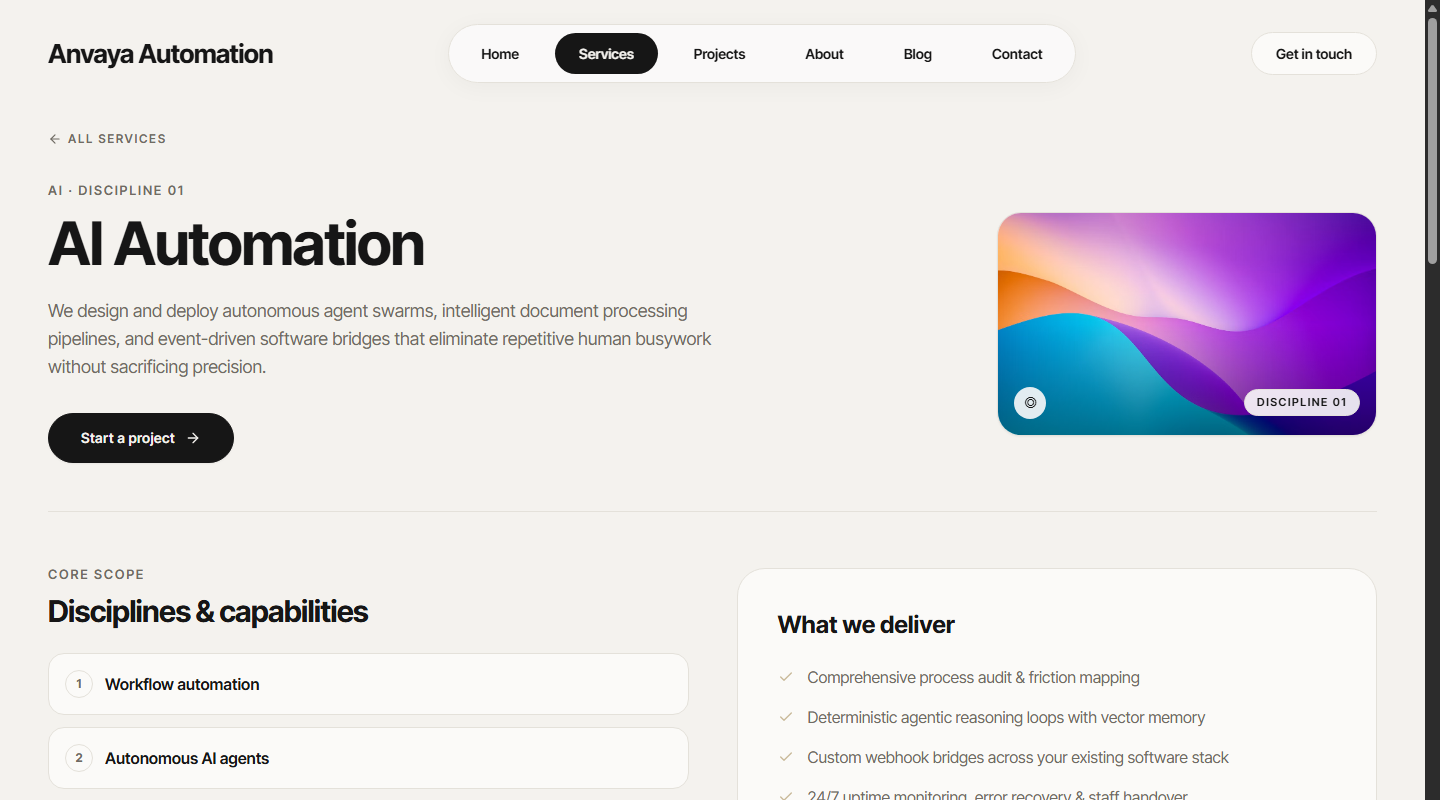
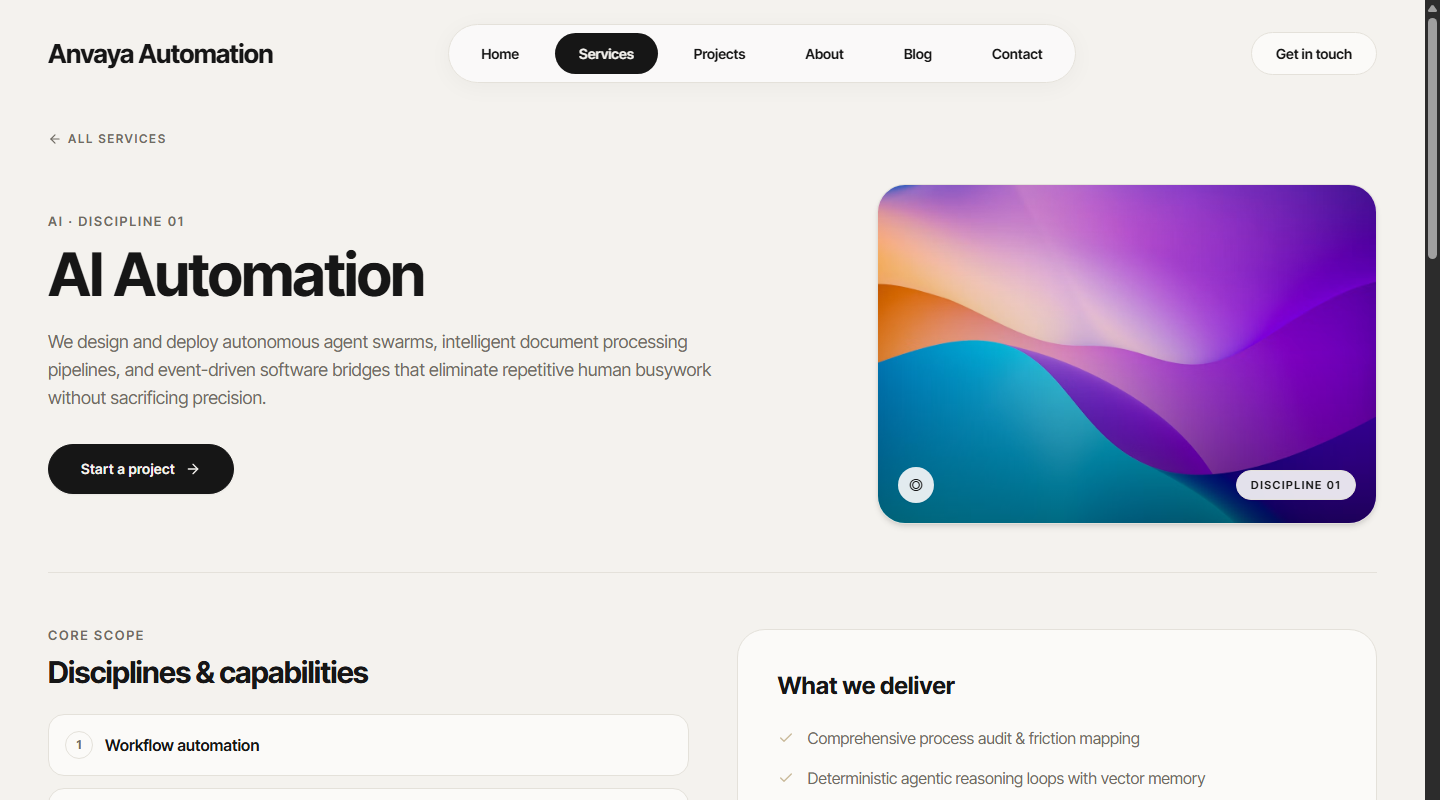
feat: match reference hero layout, enlarge service image, set Ahmedabad location, send contact email, black heading

diff --git a/app/page.tsx b/app/page.tsx
@@ -51,145 +51,151 @@ export default function HomePage() {
 
   return (
     <div className="relative overflow-hidden w-full">
-      {/* ================= 1. REDESIGNED HERO SECTION (BACKGROUND VIDEO + LAYERED SPHERE HEADLINE + SCROLL ANIMATION) ================= */}
+      {/* ================= 1. HERO SECTION (EXACT DESIGN MATCH WITH ORBITAL PEARL SPHERE & 4 FLOATING BADGES) ================= */}
       <section
         ref={heroRef}
-        onMouseMove={handleMouseMove}
-        onMouseLeave={handleMouseLeave}
-        className="relative min-h-[100svh] w-full flex flex-col justify-between pt-28 md:pt-36 pb-12 overflow-hidden bg-bg"
+        className="relative min-h-[calc(100svh-80px)] w-full flex items-center pt-28 md:pt-36 pb-16 overflow-hidden bg-bg"
       >
-        {/* Continuous Ambient Background Video Loop (Theme-matching quiet luxury) */}
-        <div className="absolute inset-0 w-full h-full overflow-hidden pointer-events-none select-none z-0">
-          <video
-            autoPlay
-            muted
-            loop
-            playsInline
-            className="w-full h-full object-cover opacity-50 mix-blend-multiply"
-          >
-            <source src="/hero-ambient.mp4" type="video/mp4" />
-          </video>
-          {/* Subtle Champagne & Ivory Vignette Gradient Overlays */}
-          <div className="absolute inset-0 bg-gradient-to-b from-[#F4F2EE]/50 via-transparent to-[#F4F2EE] pointer-events-none" />
-          <div className="absolute inset-0 bg-gradient-to-r from-[#F4F2EE]/40 via-transparent to-[#F4F2EE]/40 pointer-events-none" />
-        </div>
-
-        {/* Soft Ambient Champagne Halo Glow */}
-        <div className="absolute top-1/2 left-1/2 -translate-x-1/2 -translate-y-1/2 w-[600px] sm:w-[850px] h-[550px] rounded-full bg-gradient-to-b from-[#C9B99A]/20 via-[#EAE4D7]/25 to-transparent blur-3xl pointer-events-none z-0" />
-
-        {/* Hero Main Content Area: Centered Stage with Sphere directly behind text */}
-        <div className="w-full max-w-[1440px] mx-auto px-6 md:px-12 relative z-10 flex-1 flex flex-col justify-center items-center">
-          <div className="relative w-full max-w-5xl mx-auto flex flex-col items-center justify-center min-h-[62vh] py-6 sm:py-10">
+        <div className="w-full max-w-[1440px] mx-auto px-6 md:px-12 relative z-10 flex-1 flex items-center">
+          <div className="grid grid-cols-1 lg:grid-cols-12 gap-12 lg:gap-8 items-center w-full">
             
-            {/* Luminous Pearl Sphere & Celestial Orbital Centerpiece Directly Behind Headline */}
-            <motion.div
-              style={{
-                y: heroSphereY,
-                scale: heroSphereScale,
-                rotateX: tiltX,
-                rotateY: tiltY,
-              }}
-              className="absolute inset-0 flex items-center justify-center pointer-events-none select-none z-0 [perspective:1000px]"
-            >
-              {/* Outer Slow-Rotating Hairline Celestial Orbit Ring */}
-              <motion.div
-                animate={{ rotate: 360 }}
-                transition={{ duration: 80, repeat: Infinity, ease: 'linear' }}
-                className="absolute w-[360px] sm:w-[500px] md:w-[620px] lg:w-[680px] h-[360px] sm:h-[500px] md:h-[620px] lg:h-[680px] rounded-full border border-[#DCD6CA]/80"
-              >
-                <div className="absolute top-0 left-1/2 -translate-x-1/2 -translate-y-1/2 w-2.5 h-2.5 rounded-full bg-champagne shadow-xs" />
-              </motion.div>
-
-              {/* Inner Tilted Elliptical Ring */}
-              <div
-                style={{ transform: 'rotateX(64deg)' }}
-                className="absolute w-[380px] sm:w-[520px] md:w-[660px] lg:w-[720px] h-[380px] sm:h-[520px] md:h-[660px] lg:h-[720px] rounded-full border border-[#E6E0D6]/70"
-              />
-
-              {/* Floating Pearl Sphere */}
-              <motion.div
-                animate={{
-                  y: [-8, 8, -8],
-                }}
-                transition={{
-                  duration: 6.5,
-                  repeat: Infinity,
-                  ease: 'easeInOut',
-                }}
-                className="relative w-[280px] sm:w-[380px] md:w-[440px] h-[280px] sm:h-[380px] md:h-[440px] opacity-90 drop-shadow-[0_24px_55px_rgba(0,0,0,0.06)]"
-              >
-                <PearlSphere size="100%" />
-              </motion.div>
-            </motion.div>
-
-            {/* Foreground Content: Layered Directly On Top of The Orb & Video Visual */}
-            <motion.div
-              style={{ y: heroTextY, opacity: heroTextOpacity }}
-              className="relative z-10 flex flex-col items-center text-center px-4 max-w-4xl"
-            >
-              {/* Majestic Headline - Never Blank! */}
+            {/* LEFT COLUMN: HERO HEADLINE & EDITORIAL CONTENT */}
+            <div className="lg:col-span-5 flex flex-col justify-center text-left">
               <motion.h1
-                initial={{ opacity: 0, y: 22, scale: 0.98 }}
-                animate={{ opacity: 1, y: 0, scale: 1 }}
-                transition={{ duration: 0.9, delay: 0.1, ease: [0.22, 1, 0.36, 1] }}
-                className="text-[clamp(2.75rem,8vw,6.25rem)] font-bold tracking-tight leading-[0.96] text-ink select-none pb-4 drop-shadow-[0_2px_16px_rgba(255,255,255,0.85)]"
+                initial={{ opacity: 0, y: 24 }}
+                animate={{ opacity: 1, y: 0 }}
+                transition={{ duration: 0.8, ease: [0.22, 1, 0.36, 1] }}
+                className="text-[clamp(2.75rem,5.5vw,5.5rem)] font-extrabold tracking-tight leading-[0.98] text-ink select-none"
               >
-                Intelligence, refined.
+                Intelligence,<br />
+                refined for<br />
+                real business<span className="inline-block w-2.5 h-2.5 sm:w-3.5 sm:h-3.5 rounded-full bg-[#A38F78] ml-1.5 align-baseline" />
               </motion.h1>
 
-              {/* Narrative Subtitle with High Legibility */}
               <motion.p
                 initial={{ opacity: 0, y: 16 }}
                 animate={{ opacity: 1, y: 0 }}
-                transition={{ duration: 0.8, delay: 0.22, ease: [0.22, 1, 0.36, 1] }}
-                className="text-base sm:text-lg md:text-xl text-[#3A3630] font-normal max-w-2xl mx-auto leading-relaxed mt-2 mb-8 bg-surface/85 backdrop-blur-md px-6 py-2.5 rounded-pill border border-line/60 shadow-2xs"
+                transition={{ duration: 0.8, delay: 0.15, ease: [0.22, 1, 0.36, 1] }}
+                className="mt-6 text-base sm:text-lg md:text-xl text-[#5A564F] font-normal max-w-xl leading-relaxed"
               >
-                Autonomous workflows, bespoke web platforms, cloud architecture, and compound systems. Engineered with quiet precision.
+                We build AI automation, modern web applications, cloud infrastructure and digital growth systems that help businesses work smarter and scale faster.
               </motion.p>
 
-              {/* Action CTAs */}
               <motion.div
                 initial={{ opacity: 0, y: 18 }}
                 animate={{ opacity: 1, y: 0 }}
-                transition={{ duration: 0.8, delay: 0.3, ease: [0.22, 1, 0.36, 1] }}
-                className="flex flex-wrap items-center justify-center gap-4"
+                transition={{ duration: 0.8, delay: 0.25, ease: [0.22, 1, 0.36, 1] }}
+                className="mt-8 sm:mt-10 flex items-center"
               >
                 <Magnetic>
                   <Link
-                    href="/contact"
-                    className="luxury-btn-dark px-8 sm:px-9 py-3.5 sm:py-4 rounded-pill text-sm font-semibold tracking-wide shadow-sm min-h-[46px] inline-flex items-center gap-2.5"
+                    href="/services"
+                    className="bg-ink text-ivory hover:bg-neutral-800 transition-all rounded-pill px-8 sm:px-9 py-4 font-semibold text-sm sm:text-base inline-flex items-center gap-3 shadow-sm select-none min-h-[48px]"
                   >
-                    <span>Start a conversation</span>
+                    <span>Explore our services</span>
                     <ArrowRight className="w-4 h-4" />
                   </Link>
                 </Magnetic>
-                <Magnetic>
-                  <Link
-                    href="/services"
-                    className="luxury-btn-light px-8 sm:px-9 py-3.5 sm:py-4 rounded-pill text-sm font-semibold tracking-wide shadow-2xs min-h-[46px] inline-flex items-center gap-2"
-                  >
-                    <span>Explore capabilities</span>
-                  </Link>
-                </Magnetic>
               </motion.div>
-            </motion.div>
-          </div>
-        </div>
+            </div>
 
-        {/* Hero Bottom Strip: Grounded Studio Credentials */}
-        <div className="w-full max-w-[1440px] mx-auto px-6 md:px-12 mt-6 pt-6 border-t border-line/70 relative z-10">
-          <div className="grid grid-cols-1 sm:grid-cols-3 gap-4 sm:gap-8 text-xs text-muted font-medium tracking-wide">
-            <div className="flex items-center gap-2">
-              <span className="w-1.5 h-1.5 rounded-full bg-ink" />
-              <span>5 Core Engineering Disciplines</span>
-            </div>
-            <div className="flex items-center gap-2 sm:justify-center">
-              <span className="w-1.5 h-1.5 rounded-full bg-champagne" />
-              <span>Zero Vendor Lock-in · Full IP Ownership</span>
-            </div>
-            <div className="flex items-center gap-2 sm:justify-end">
-              <span className="w-1.5 h-1.5 rounded-full bg-[#8C7A5B]" />
-              <span>Mumbai &amp; Bangalore · Global Delivery</span>
+            {/* RIGHT COLUMN: ORBITAL PEARL SPHERE & 4 FLOATING BADGES (MATCHING REFERENCE IMAGE) */}
+            <div className="lg:col-span-7 flex items-center justify-center relative w-full select-none py-4 sm:py-8">
+              <div className="relative w-[340px] h-[340px] sm:w-[460px] sm:h-[460px] md:w-[540px] md:h-[540px] lg:w-[600px] lg:h-[600px] flex items-center justify-center">
+                
+                {/* Ambient Soft Radial Champagne Halo behind sphere */}
+                <div className="absolute inset-0 rounded-full bg-gradient-to-tr from-[#EBE4D5]/60 via-[#F3EFE6]/40 to-transparent blur-2xl pointer-events-none" />
+
+                {/* Concentric Hairline Orbital Rings */}
+                <div className="absolute w-[88%] h-[88%] rounded-full border border-[#DDD7CD]/75 pointer-events-none" />
+                <div className="absolute w-[72%] h-[72%] rounded-full border border-[#DDD7CD]/65 pointer-events-none" />
+                <div className="absolute w-[56%] h-[56%] rounded-full border border-[#DDD7CD]/55 pointer-events-none" />
+                <div className="absolute w-[42%] h-[42%] rounded-full border border-[#DDD7CD]/45 pointer-events-none" />
+
+                {/* Satellite Metallic Beads (Placed along orbital paths matching image) */}
+                {/* Bead 1 (Top-right outer orbit): ~22px */}
+                <div
+                  className="absolute top-[8%] right-[22%] w-5 h-5 sm:w-6 sm:h-6 rounded-full shadow-[0_6px_14px_rgba(140,120,90,0.25)] pointer-events-none"
+                  style={{ background: 'radial-gradient(circle at 35% 25%, #FFF0D6 0%, #C9B99A 50%, #857252 100%)' }}
+                />
+                {/* Bead 2 (Top-left inner orbit): ~11px */}
+                <div
+                  className="absolute top-[28%] left-[24%] w-2.5 h-2.5 sm:w-3 sm:h-3 rounded-full shadow-sm pointer-events-none"
+                  style={{ background: 'radial-gradient(circle at 35% 25%, #FFF0D6 0%, #C9B99A 50%, #857252 100%)' }}
+                />
+                {/* Bead 3 (Far-left middle orbit): ~13px */}
+                <div
+                  className="absolute top-[48%] left-[8%] w-3 h-3 sm:w-3.5 sm:h-3.5 rounded-full shadow-sm pointer-events-none"
+                  style={{ background: 'radial-gradient(circle at 35% 25%, #FFF0D6 0%, #C9B99A 50%, #857252 100%)' }}
+                />
+                {/* Bead 4 (Right-center middle orbit): ~11px */}
+                <div
+                  className="absolute top-[54%] right-[16%] w-2.5 h-2.5 sm:w-3 sm:h-3 rounded-full shadow-sm pointer-events-none"
+                  style={{ background: 'radial-gradient(circle at 35% 25%, #FFF0D6 0%, #C9B99A 50%, #857252 100%)' }}
+                />
+                {/* Bead 5 (Bottom-left outer orbit): ~24px */}
+                <div
+                  className="absolute bottom-[14%] left-[28%] w-5 h-5 sm:w-6 sm:h-6 rounded-full shadow-[0_6px_16px_rgba(140,120,90,0.25)] pointer-events-none"
+                  style={{ background: 'radial-gradient(circle at 35% 25%, #FFF0D6 0%, #C9B99A 50%, #857252 100%)' }}
+                />
+                {/* Bead 6 (Bottom outer orbit): ~14px */}
+                <div
+                  className="absolute bottom-[20%] right-[32%] w-3.5 h-3.5 sm:w-4 sm:h-4 rounded-full shadow-sm pointer-events-none"
+                  style={{ background: 'radial-gradient(circle at 35% 25%, #FFF0D6 0%, #C9B99A 50%, #857252 100%)' }}
+                />
+
+                {/* Central High-Fidelity Pearl Sphere */}
+                <motion.div
+                  animate={{ y: [-7, 7, -7] }}
+                  transition={{ duration: 7, repeat: Infinity, ease: 'easeInOut' }}
+                  className="relative w-[190px] h-[190px] sm:w-[260px] sm:h-[260px] md:w-[310px] md:h-[310px] lg:w-[350px] lg:h-[350px] rounded-full pointer-events-none"
+                  style={{
+                    background: 'radial-gradient(circle at 38% 30%, #FFFFFF 0%, #FAF8F3 25%, #EDE7DD 55%, #D7CEC2 80%, #BDAFA0 100%)',
+                    boxShadow: '0 45px 95px rgba(160, 145, 125, 0.22), 0 16px 36px rgba(0, 0, 0, 0.05)',
+                  }}
+                />
+
+                {/* 4 FLOATING GLASSMORPHISM BADGES (EXACT POSITIONS FROM REFERENCE IMAGE) */}
+                {/* 1. AI AUTOMATION (Top) */}
+                <motion.div
+                  animate={{ y: [-4, 4, -4] }}
+                  transition={{ duration: 5.5, repeat: Infinity, ease: 'easeInOut' }}
+                  className="absolute top-[8%] sm:top-[10%] left-[20%] sm:left-[24%] bg-white/88 backdrop-blur-md px-3.5 sm:px-4 py-1.5 sm:py-2 rounded-full border border-white/80 shadow-[0_6px_20px_rgba(0,0,0,0.05)] text-[10px] sm:text-[12px] font-semibold tracking-[0.14em] uppercase text-[#3A3630] flex items-center gap-2 whitespace-nowrap z-20"
+                >
+                  <span className="w-1.5 h-1.5 rounded-full bg-[#B3A086] flex-shrink-0" />
+                  <span>AI AUTOMATION</span>
+                </motion.div>
+
+                {/* 2. WEB APPLICATIONS (Right) */}
+                <motion.div
+                  animate={{ y: [4, -4, 4] }}
+                  transition={{ duration: 6, repeat: Infinity, ease: 'easeInOut', delay: 0.5 }}
+                  className="absolute top-[38%] sm:top-[40%] right-[-8px] sm:right-[0%] lg:right-[-12px] bg-white/88 backdrop-blur-md px-3.5 sm:px-4 py-1.5 sm:py-2 rounded-full border border-white/80 shadow-[0_6px_20px_rgba(0,0,0,0.05)] text-[10px] sm:text-[12px] font-semibold tracking-[0.14em] uppercase text-[#3A3630] flex items-center gap-2 whitespace-nowrap z-20"
+                >
+                  <span className="w-1.5 h-1.5 rounded-full bg-[#B3A086] flex-shrink-0" />
+                  <span>WEB APPLICATIONS</span>
+                </motion.div>
+
+                {/* 3. CLOUD INFRASTRUCTURE (Bottom-Left) */}
+                <motion.div
+                  animate={{ y: [-5, 5, -5] }}
+                  transition={{ duration: 6.5, repeat: Infinity, ease: 'easeInOut', delay: 1 }}
+                  className="absolute bottom-[24%] sm:bottom-[25%] left-[-4px] sm:left-[4%] lg:left-[2%] bg-white/88 backdrop-blur-md px-3.5 sm:px-4 py-1.5 sm:py-2 rounded-full border border-white/80 shadow-[0_6px_20px_rgba(0,0,0,0.05)] text-[10px] sm:text-[12px] font-semibold tracking-[0.14em] uppercase text-[#3A3630] flex items-center gap-2 whitespace-nowrap z-20"
+                >
+                  <span className="w-1.5 h-1.5 rounded-full bg-[#B3A086] flex-shrink-0" />
+                  <span>CLOUD INFRASTRUCTURE</span>
+                </motion.div>
+
+                {/* 4. GROWTH & SEO (Bottom-Right) */}
+                <motion.div
+                  animate={{ y: [4, -4, 4] }}
+                  transition={{ duration: 5.8, repeat: Infinity, ease: 'easeInOut', delay: 1.5 }}
+                  className="absolute bottom-[14%] sm:bottom-[16%] right-[2%] sm:right-[6%] lg:right-[4%] bg-white/88 backdrop-blur-md px-3.5 sm:px-4 py-1.5 sm:py-2 rounded-full border border-white/80 shadow-[0_6px_20px_rgba(0,0,0,0.05)] text-[10px] sm:text-[12px] font-semibold tracking-[0.14em] uppercase text-[#3A3630] flex items-center gap-2 whitespace-nowrap z-20"
+                >
+                  <span className="w-1.5 h-1.5 rounded-full bg-[#B3A086] flex-shrink-0" />
+                  <span>GROWTH &amp; SEO</span>
+                </motion.div>
+              </div>
             </div>
           </div>
         </div>
@@ -200,7 +206,7 @@ export default function HomePage() {
         <div className="w-full max-w-[1440px] mx-auto px-6 md:px-12">
           <FadeUp>
             <div className="quiet-tag mb-4">What We Do</div>
-            <h2 className="text-[clamp(2.25rem,5.5vw,4.75rem)] font-bold tracking-tight leading-[1.04] max-w-4xl text-coffee pb-2">
+            <h2 className="text-[clamp(2.25rem,5.5vw,4.75rem)] font-bold tracking-tight leading-[1.04] max-w-4xl text-ink pb-2">
               Everything your business needs to scale.
             </h2>
             <p className="mt-4 text-muted text-base sm:text-lg max-w-3xl leading-relaxed font-light">

diff --git a/app/services/[slug]/page.tsx b/app/services/[slug]/page.tsx
@@ -55,8 +55,8 @@ export default function ServiceDetailPage() {
         <FadeUp>
           <div className="pb-12 mb-10 border-b border-line">
             <div className="grid grid-cols-1 lg:grid-cols-12 gap-8 lg:gap-12 items-center">
-              {/* Left Column (8 cols): Category, Title, Description, CTA */}
-              <div className="lg:col-span-8">
+              {/* Left Column (7 cols): Category, Title, Description, CTA */}
+              <div className="lg:col-span-7">
                 <div className="quiet-tag mb-4">{service.category} · Discipline {service.number}</div>
                 <h1 className="text-3xl sm:text-4xl md:text-5xl lg:text-6xl font-bold tracking-tight text-ink leading-[1.04] pb-2">
                   {service.title}
@@ -78,20 +78,20 @@ export default function ServiceDetailPage() {
                 </div>
               </div>
 
-              {/* Right Column (4 cols): Sleek Compact Editorial Card matching Blog post style */}
-              <div className="lg:col-span-4 flex justify-center lg:justify-end">
-                <div className="w-full max-w-[380px] h-48 sm:h-56 rounded-[24px] overflow-hidden border border-line bg-card shadow-sm relative group">
+              {/* Right Column (5 cols): Expanded Premium Photo Card */}
+              <div className="lg:col-span-5 flex justify-center lg:justify-end">
+                <div className="w-full max-w-[500px] h-64 sm:h-72 md:h-80 lg:h-[340px] rounded-[28px] overflow-hidden border border-line bg-card shadow-md relative group">
                   <img
                     src={service.imageUrl}
                     alt={service.title}
                     className="w-full h-full object-cover group-hover:scale-105 transition-transform duration-500"
                   />
-                  <div className="absolute inset-0 bg-gradient-to-t from-black/40 via-transparent to-transparent pointer-events-none" />
-                  <div className="absolute bottom-4 left-4 right-4 flex items-center justify-between text-ivory">
-                    <span className="w-8 h-8 rounded-full bg-surface/90 backdrop-blur-md flex items-center justify-center font-serif text-base text-ink shadow-xs">
+                  <div className="absolute inset-0 bg-gradient-to-t from-black/45 via-black/10 to-transparent pointer-events-none" />
+                  <div className="absolute bottom-5 left-5 right-5 flex items-center justify-between text-ivory">
+                    <span className="w-9 h-9 rounded-full bg-surface/90 backdrop-blur-md flex items-center justify-center font-serif text-lg text-ink shadow-sm">
                       {service.iconSymbol}
                     </span>
-                    <span className="text-[11px] font-semibold tracking-[0.14em] uppercase bg-surface/90 backdrop-blur-md px-3 py-1 rounded-pill text-ink border border-line shadow-xs">
+                    <span className="text-[11px] font-semibold tracking-[0.14em] uppercase bg-surface/90 backdrop-blur-md px-3.5 py-1.5 rounded-pill text-ink border border-line shadow-sm">
                       Discipline {service.number}
                     </span>
                   </div>

diff --git a/app/contact/page.tsx b/app/contact/page.tsx
@@ -34,13 +34,29 @@ export default function ContactPage() {
     setIsSubmitting(true);
     setResult(null);
 
-    const formData = new FormData(e.currentTarget);
+    const form = e.currentTarget;
+    const formData = new FormData(form);
+    const name = (formData.get('name') as string) || '';
+    const email = (formData.get('email') as string) || '';
+    const company = (formData.get('company') as string) || '';
+    const message = (formData.get('message') as string) || '';
+    const services = selectedServices.join(', ');
+
     formData.delete('services');
     selectedServices.forEach((s) => formData.append('services', s));
 
     const res = await submitContactAction(null, formData);
     setIsSubmitting(false);
     setResult(res);
+
+    if (res.success) {
+      // Directly open email to contact@anvayaautomation.com
+      const subject = encodeURIComponent(`Project Inquiry: ${name} (${company || 'New Client'})`);
+      const body = encodeURIComponent(
+        `Dear Anvaya Automation Team,\n\nI would like to discuss a project.\n\nName: ${name}\nEmail: ${email}\nCompany: ${company || 'N/A'}\nInterested Services: ${services}\n\nProject Details:\n${message}\n\nBest regards,\n${name}`
+      );
+      window.location.href = `mailto:contact@anvayaautomation.com?subject=${subject}&body=${body}`;
+    }
   };
 
   return (
@@ -103,7 +119,7 @@ export default function ContactPage() {
                   <div>
                     <span className="text-[12px] uppercase tracking-[0.14em] text-muted block font-semibold">Location</span>
                     <span className="text-sm sm:text-base text-ink font-light">
-                      Mumbai &amp; Bangalore, India (Partnering with global clients)
+                      Ahmedabad, Gujarat, India (Partnering with global clients)
                     </span>
                   </div>
                 </div>

diff --git a/app/about/page.tsx b/app/about/page.tsx
@@ -56,15 +56,6 @@ export default function AboutPage() {
               <div className="relative w-[320px] h-[320px] sm:w-[380px] sm:h-[380px] flex items-center justify-center">
                 <HairlineRing size={360} className="scale-90 sm:scale-100" />
                 <PearlSphere size={240} className="scale-90 sm:scale-100" />
-                {/* Micro Pill */}
-                <motion.div
-                  initial={{ opacity: 0, scale: 0.8 }}
-                  animate={{ opacity: 1, scale: 1 }}
-                  transition={{ delay: 0.5, duration: 0.8 }}
-                  className="absolute bottom-4 right-4 bg-white/95 backdrop-blur-md px-4 py-2 rounded-full border border-line shadow-sm text-[12px] font-semibold tracking-[0.14em] uppercase text-ink"
-                >
-                  ◎ ZERO RESIDUAL FRICTION
-                </motion.div>
               </div>
             </div>
           </div>

diff --git a/data/siteData.ts b/data/siteData.ts
@@ -9,7 +9,7 @@ export const siteConfig = {
   secondaryPhone: '+91 9624865617',
   whatsappNumber: '9313220796',
   whatsappUrl: 'https://wa.me/919313220796',
-  address: 'Mumbai & Bangalore, India (Partnering with global clients)',
+  address: 'Ahmedabad, Gujarat, India (Partnering with global clients)',
   workingHours: 'Mon–Sat, 10:00 AM – 7:00 PM IST',
   socials: [
     { name: 'LinkedIn', url: 'https://linkedin.com/company/anvaya-automation' },
